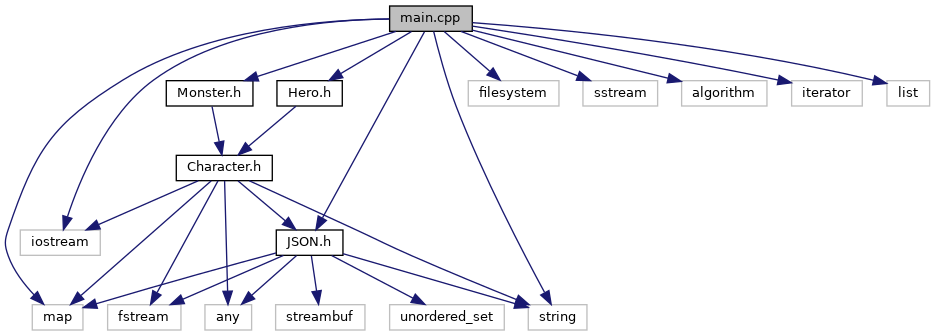
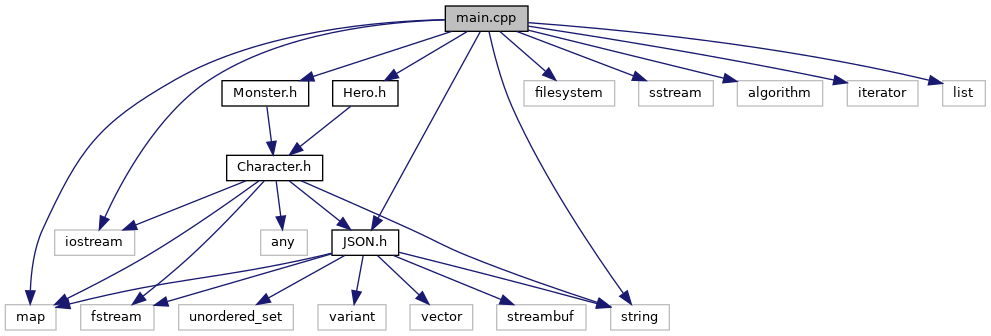
Update gh-pages to output generated at ac00d6c

diff --git a/JSON_8h_source.html b/JSON_8h_source.html
@@ -65,41 +65,44 @@ $(function() {
 <div class="title">JSON.h</div>  </div>
 </div><!--header-->
 <div class="contents">
-<div class="fragment"><div class="line"><a name="l00001"></a><span class="lineno">    1</span>&#160; </div>
-<div class="line"><a name="l00007"></a><span class="lineno">    7</span>&#160;<span class="preprocessor">#ifndef JSON_H</span></div>
-<div class="line"><a name="l00008"></a><span class="lineno">    8</span>&#160;<span class="preprocessor">#define JSON_H</span></div>
-<div class="line"><a name="l00009"></a><span class="lineno">    9</span>&#160; </div>
-<div class="line"><a name="l00010"></a><span class="lineno">   10</span>&#160;<span class="preprocessor">#include &lt;map&gt;</span></div>
-<div class="line"><a name="l00011"></a><span class="lineno">   11</span>&#160;<span class="preprocessor">#include &lt;string&gt;</span></div>
-<div class="line"><a name="l00012"></a><span class="lineno">   12</span>&#160;<span class="preprocessor">#include &lt;any&gt;</span></div>
-<div class="line"><a name="l00013"></a><span class="lineno">   13</span>&#160;<span class="preprocessor">#include &lt;fstream&gt;</span></div>
-<div class="line"><a name="l00014"></a><span class="lineno">   14</span>&#160;<span class="preprocessor">#include &lt;streambuf&gt;</span></div>
-<div class="line"><a name="l00015"></a><span class="lineno">   15</span>&#160;<span class="preprocessor">#include &lt;unordered_set&gt;</span></div>
-<div class="line"><a name="l00016"></a><span class="lineno">   16</span>&#160; </div>
-<div class="line"><a name="l00017"></a><span class="lineno"><a class="line" href="classJSON.html">   17</a></span>&#160;<span class="keyword">class </span><a class="code" href="classJSON.html">JSON</a></div>
-<div class="line"><a name="l00018"></a><span class="lineno">   18</span>&#160;{</div>
-<div class="line"><a name="l00019"></a><span class="lineno">   19</span>&#160;<span class="keyword">private</span>:</div>
-<div class="line"><a name="l00020"></a><span class="lineno">   20</span>&#160;    std::map&lt;std::string, std::any&gt; map;</div>
-<div class="line"><a name="l00021"></a><span class="lineno">   21</span>&#160;    <a class="code" href="classJSON.html">JSON</a>(<span class="keyword">const</span> std::map&lt;std::string, std::any&gt;&amp; _map) : map(_map) {}</div>
-<div class="line"><a name="l00022"></a><span class="lineno">   22</span>&#160;<span class="keyword">public</span>:</div>
-<div class="line"><a name="l00030"></a><span class="lineno">   30</span>&#160;    <span class="keyword">static</span> std::map&lt;std::string, std::any&gt; <a class="code" href="classJSON.html#aa43da4980c8220c893726d028bcd2b53">parse</a>(std::string inputString = <span class="stringliteral">&quot;&quot;</span>, <span class="keywordtype">bool</span> isFile = <span class="keyword">false</span>);</div>
-<div class="line"><a name="l00036"></a><span class="lineno">   36</span>&#160;    <span class="keyword">static</span> std::map&lt;std::string, std::any&gt; <a class="code" href="classJSON.html#aa43da4980c8220c893726d028bcd2b53">parse</a>(std::istream &amp;stream);</div>
-<div class="line"><a name="l00042"></a><span class="lineno">   42</span>&#160;    <span class="keyword">static</span> <a class="code" href="classJSON.html">JSON</a> <a class="code" href="classJSON.html#a5fca3b2c22d8276690a03c7a8a9f2339">parseFromFile</a>(std::string fileName);</div>
-<div class="line"><a name="l00048"></a><span class="lineno"><a class="line" href="classJSON.html#a8cdf7734b3652ae5b7e600eb0b4549bb">   48</a></span>&#160;    <span class="keyword">const</span> <span class="keywordtype">int</span> <a class="code" href="classJSON.html#a8cdf7734b3652ae5b7e600eb0b4549bb">count</a>(<span class="keyword">const</span> std::string &amp;key)<span class="keyword"> const </span>{ <span class="keywordflow">return</span> map.count(key); }</div>
-<div class="line"><a name="l00055"></a><span class="lineno">   55</span>&#160;    <span class="keyword">template</span> &lt;<span class="keyword">typename</span> T&gt;</div>
-<div class="line"><a name="l00056"></a><span class="lineno"><a class="line" href="classJSON.html#aebfe4eae3134bdc249f9695c6406bdba">   56</a></span>&#160;        T <a class="code" href="classJSON.html#aebfe4eae3134bdc249f9695c6406bdba">get</a>(<span class="keyword">const</span> std::string &amp;key) { <span class="keywordflow">return</span> std::any_cast&lt;T&gt;(map[key]); }</div>
-<div class="line"><a name="l00057"></a><span class="lineno">   57</span>&#160; </div>
-<div class="line"><a name="l00058"></a><span class="lineno"><a class="line" href="classJSON_1_1ParseException.html">   58</a></span>&#160;    <span class="keyword">class </span><a class="code" href="classJSON_1_1ParseException.html">ParseException</a> : <span class="keyword">public</span> std::exception {}; </div>
-<div class="line"><a name="l00059"></a><span class="lineno">   59</span>&#160;};</div>
-<div class="line"><a name="l00060"></a><span class="lineno">   60</span>&#160; </div>
-<div class="line"><a name="l00061"></a><span class="lineno">   61</span>&#160;<span class="preprocessor">#endif</span></div>
+<div class="fragment"><div class="line"><a name="l00001"></a><span class="lineno">    1</span>&#160;<span class="preprocessor">#ifndef JSON_H</span></div>
+<div class="line"><a name="l00002"></a><span class="lineno">    2</span>&#160;<span class="preprocessor">#define JSON_H</span></div>
+<div class="line"><a name="l00003"></a><span class="lineno">    3</span>&#160; </div>
+<div class="line"><a name="l00004"></a><span class="lineno">    4</span>&#160;<span class="preprocessor">#include &lt;map&gt;</span></div>
+<div class="line"><a name="l00005"></a><span class="lineno">    5</span>&#160;<span class="preprocessor">#include &lt;string&gt;</span></div>
+<div class="line"><a name="l00006"></a><span class="lineno">    6</span>&#160;<span class="preprocessor">#include &lt;fstream&gt;</span></div>
+<div class="line"><a name="l00007"></a><span class="lineno">    7</span>&#160;<span class="preprocessor">#include &lt;streambuf&gt;</span></div>
+<div class="line"><a name="l00008"></a><span class="lineno">    8</span>&#160;<span class="preprocessor">#include &lt;unordered_set&gt;</span></div>
+<div class="line"><a name="l00009"></a><span class="lineno">    9</span>&#160;<span class="preprocessor">#include &lt;variant&gt;</span></div>
+<div class="line"><a name="l00010"></a><span class="lineno">   10</span>&#160;<span class="preprocessor">#include &lt;vector&gt;</span></div>
+<div class="line"><a name="l00011"></a><span class="lineno">   11</span>&#160; </div>
+<div class="line"><a name="l00012"></a><span class="lineno"><a class="line" href="classJSON.html">   12</a></span>&#160;<span class="keyword">class </span><a class="code" href="classJSON.html">JSON</a></div>
+<div class="line"><a name="l00013"></a><span class="lineno">   13</span>&#160;{</div>
+<div class="line"><a name="l00014"></a><span class="lineno">   14</span>&#160;<span class="keyword">public</span>:</div>
+<div class="line"><a name="l00015"></a><span class="lineno">   15</span>&#160;    <span class="keyword">typedef</span> std::vector&lt;std::variant&lt;std::string, float, bool, std::nullptr_t&gt;&gt; list;</div>
+<div class="line"><a name="l00016"></a><span class="lineno">   16</span>&#160;    <span class="keyword">typedef</span> std::variant&lt;std::string, list, float, bool, std::nullptr_t&gt; var;</div>
+<div class="line"><a name="l00017"></a><span class="lineno">   17</span>&#160;<span class="keyword">private</span>:</div>
+<div class="line"><a name="l00018"></a><span class="lineno">   18</span>&#160;    std::map&lt;std::string, var&gt; map;</div>
+<div class="line"><a name="l00019"></a><span class="lineno">   19</span>&#160;    <a class="code" href="classJSON.html">JSON</a>(std::map&lt;std::string, var&gt; _map) : map(_map) {}</div>
+<div class="line"><a name="l00020"></a><span class="lineno">   20</span>&#160;<span class="keyword">public</span>:</div>
+<div class="line"><a name="l00028"></a><span class="lineno">   28</span>&#160;    <span class="keyword">static</span> std::map&lt;std::string, var&gt; <a class="code" href="classJSON.html#a40332576937cf36882ea84b8f250fabb">parse</a>(std::string inputString = <span class="stringliteral">&quot;&quot;</span>, <span class="keywordtype">bool</span> isFile = <span class="keyword">false</span>);</div>
+<div class="line"><a name="l00034"></a><span class="lineno">   34</span>&#160;    <span class="keyword">static</span> std::map&lt;std::string, var&gt; <a class="code" href="classJSON.html#a40332576937cf36882ea84b8f250fabb">parse</a>(std::istream &amp;stream);</div>
+<div class="line"><a name="l00040"></a><span class="lineno">   40</span>&#160;    <span class="keyword">static</span> <a class="code" href="classJSON.html">JSON</a> <a class="code" href="classJSON.html#a5fca3b2c22d8276690a03c7a8a9f2339">parseFromFile</a>(std::string fileName);</div>
+<div class="line"><a name="l00046"></a><span class="lineno"><a class="line" href="classJSON.html#a8cdf7734b3652ae5b7e600eb0b4549bb">   46</a></span>&#160;    <span class="keyword">const</span> <span class="keywordtype">int</span> <a class="code" href="classJSON.html#a8cdf7734b3652ae5b7e600eb0b4549bb">count</a>(<span class="keyword">const</span> std::string &amp;key)<span class="keyword"> const </span>{ <span class="keywordflow">return</span> map.count(key); }</div>
+<div class="line"><a name="l00054"></a><span class="lineno">   54</span>&#160;    <span class="keyword">template</span> &lt;<span class="keyword">typename</span> T&gt;</div>
+<div class="line"><a name="l00055"></a><span class="lineno"><a class="line" href="classJSON.html#aebfe4eae3134bdc249f9695c6406bdba">   55</a></span>&#160;        T <a class="code" href="classJSON.html#aebfe4eae3134bdc249f9695c6406bdba">get</a>(<span class="keyword">const</span> std::string &amp;key) { <span class="keywordflow">return</span> std::get&lt;T&gt;(map[key]); }</div>
+<div class="line"><a name="l00056"></a><span class="lineno">   56</span>&#160; </div>
+<div class="line"><a name="l00057"></a><span class="lineno"><a class="line" href="classJSON_1_1ParseException.html">   57</a></span>&#160;    <span class="keyword">class </span><a class="code" href="classJSON_1_1ParseException.html">ParseException</a> : <span class="keyword">public</span> std::exception {}; </div>
+<div class="line"><a name="l00058"></a><span class="lineno">   58</span>&#160;};</div>
+<div class="line"><a name="l00059"></a><span class="lineno">   59</span>&#160; </div>
+<div class="line"><a name="l00060"></a><span class="lineno">   60</span>&#160;<span class="preprocessor">#endif</span></div>
 </div><!-- fragment --></div><!-- contents -->
-<div class="ttc" id="aclassJSON_html_aa43da4980c8220c893726d028bcd2b53"><div class="ttname"><a href="classJSON.html#aa43da4980c8220c893726d028bcd2b53">JSON::parse</a></div><div class="ttdeci">static std::map&lt; std::string, std::any &gt; parse(std::string inputString=&quot;&quot;, bool isFile=false)</div><div class="ttdoc">String or file parse.</div><div class="ttdef"><b>Definition:</b> JSON.cpp:172</div></div>
-<div class="ttc" id="aclassJSON_html_aebfe4eae3134bdc249f9695c6406bdba"><div class="ttname"><a href="classJSON.html#aebfe4eae3134bdc249f9695c6406bdba">JSON::get</a></div><div class="ttdeci">T get(const std::string &amp;key)</div><div class="ttdoc">Getter for own map.</div><div class="ttdef"><b>Definition:</b> JSON.h:56</div></div>
-<div class="ttc" id="aclassJSON_html_a5fca3b2c22d8276690a03c7a8a9f2339"><div class="ttname"><a href="classJSON.html#a5fca3b2c22d8276690a03c7a8a9f2339">JSON::parseFromFile</a></div><div class="ttdeci">static JSON parseFromFile(std::string fileName)</div><div class="ttdoc">File parse to own map.</div><div class="ttdef"><b>Definition:</b> JSON.cpp:201</div></div>
-<div class="ttc" id="aclassJSON_html_a8cdf7734b3652ae5b7e600eb0b4549bb"><div class="ttname"><a href="classJSON.html#a8cdf7734b3652ae5b7e600eb0b4549bb">JSON::count</a></div><div class="ttdeci">const int count(const std::string &amp;key) const</div><div class="ttdoc">Key counter in own map.</div><div class="ttdef"><b>Definition:</b> JSON.h:48</div></div>
-<div class="ttc" id="aclassJSON_html"><div class="ttname"><a href="classJSON.html">JSON</a></div><div class="ttdoc">Reads simple data maps in .json format.</div><div class="ttdef"><b>Definition:</b> JSON.h:17</div></div>
-<div class="ttc" id="aclassJSON_1_1ParseException_html"><div class="ttname"><a href="classJSON_1_1ParseException.html">JSON::ParseException</a></div><div class="ttdef"><b>Definition:</b> JSON.h:58</div></div>
+<div class="ttc" id="aclassJSON_html_aebfe4eae3134bdc249f9695c6406bdba"><div class="ttname"><a href="classJSON.html#aebfe4eae3134bdc249f9695c6406bdba">JSON::get</a></div><div class="ttdeci">T get(const std::string &amp;key)</div><div class="ttdoc">Getter for own map.</div><div class="ttdef"><b>Definition:</b> JSON.h:55</div></div>
+<div class="ttc" id="aclassJSON_html_a5fca3b2c22d8276690a03c7a8a9f2339"><div class="ttname"><a href="classJSON.html#a5fca3b2c22d8276690a03c7a8a9f2339">JSON::parseFromFile</a></div><div class="ttdeci">static JSON parseFromFile(std::string fileName)</div><div class="ttdoc">File parse to own map.</div><div class="ttdef"><b>Definition:</b> JSON.cpp:276</div></div>
+<div class="ttc" id="aclassJSON_html_a8cdf7734b3652ae5b7e600eb0b4549bb"><div class="ttname"><a href="classJSON.html#a8cdf7734b3652ae5b7e600eb0b4549bb">JSON::count</a></div><div class="ttdeci">const int count(const std::string &amp;key) const</div><div class="ttdoc">Key counter in own map.</div><div class="ttdef"><b>Definition:</b> JSON.h:46</div></div>
+<div class="ttc" id="aclassJSON_html"><div class="ttname"><a href="classJSON.html">JSON</a></div><div class="ttdef"><b>Definition:</b> JSON.h:12</div></div>
+<div class="ttc" id="aclassJSON_html_a40332576937cf36882ea84b8f250fabb"><div class="ttname"><a href="classJSON.html#a40332576937cf36882ea84b8f250fabb">JSON::parse</a></div><div class="ttdeci">static std::map&lt; std::string, var &gt; parse(std::string inputString=&quot;&quot;, bool isFile=false)</div><div class="ttdoc">String or file parse.</div><div class="ttdef"><b>Definition:</b> JSON.cpp:247</div></div>
+<div class="ttc" id="aclassJSON_1_1ParseException_html"><div class="ttname"><a href="classJSON_1_1ParseException.html">JSON::ParseException</a></div><div class="ttdef"><b>Definition:</b> JSON.h:57</div></div>
 <!-- start footer part -->
 <hr class="footer"/><address class="footer"><small>
 Generated by &#160;<a href="http://www.doxygen.org/index.html">

diff --git a/classJSON.html b/classJSON.html
@@ -63,6 +63,7 @@ $(function() {
 <div class="header">
   <div class="summary">
 <a href="#nested-classes">Classes</a> &#124;
+<a href="#pub-types">Public Types</a> &#124;
 <a href="#pub-methods">Public Member Functions</a> &#124;
 <a href="#pub-static-methods">Static Public Member Functions</a> &#124;
 <a href="classJSON-members.html">List of all members</a>  </div>
@@ -70,16 +71,20 @@ $(function() {
 <div class="title">JSON Class Reference</div>  </div>
 </div><!--header-->
 <div class="contents">
-
-<p>Reads simple data maps in .json format.  
- <a href="classJSON.html#details">More...</a></p>
-
-<p><code>#include &lt;<a class="el" href="JSON_8h_source.html">JSON.h</a>&gt;</code></p>
 <table class="memberdecls">
 <tr class="heading"><td colspan="2"><h2 class="groupheader"><a name="nested-classes"></a>
 Classes</h2></td></tr>
 <tr class="memitem:"><td class="memItemLeft" align="right" valign="top">class &#160;</td><td class="memItemRight" valign="bottom"><a class="el" href="classJSON_1_1ParseException.html">ParseException</a></td></tr>
 <tr class="separator:"><td class="memSeparator" colspan="2">&#160;</td></tr>
+</table><table class="memberdecls">
+<tr class="heading"><td colspan="2"><h2 class="groupheader"><a name="pub-types"></a>
+Public Types</h2></td></tr>
+<tr class="memitem:adfb2207a938cada0edf8044c0728dfe0"><td class="memItemLeft" align="right" valign="top"><a id="adfb2207a938cada0edf8044c0728dfe0"></a>
+typedef std::vector&lt; std::variant&lt; std::string, float, bool, std::nullptr_t &gt; &gt;&#160;</td><td class="memItemRight" valign="bottom"><b>list</b></td></tr>
+<tr class="separator:adfb2207a938cada0edf8044c0728dfe0"><td class="memSeparator" colspan="2">&#160;</td></tr>
+<tr class="memitem:a6b21e80ece16ee74dc6ea0a4c875d40f"><td class="memItemLeft" align="right" valign="top"><a id="a6b21e80ece16ee74dc6ea0a4c875d40f"></a>
+typedef std::variant&lt; std::string, list, float, bool, std::nullptr_t &gt;&#160;</td><td class="memItemRight" valign="bottom"><b>var</b></td></tr>
+<tr class="separator:a6b21e80ece16ee74dc6ea0a4c875d40f"><td class="memSeparator" colspan="2">&#160;</td></tr>
 </table><table class="memberdecls">
 <tr class="heading"><td colspan="2"><h2 class="groupheader"><a name="pub-methods"></a>
 Public Member Functions</h2></td></tr>
@@ -93,20 +98,17 @@ Public Member Functions</h2></td></tr>
 </table><table class="memberdecls">
 <tr class="heading"><td colspan="2"><h2 class="groupheader"><a name="pub-static-methods"></a>
 Static Public Member Functions</h2></td></tr>
-<tr class="memitem:aa43da4980c8220c893726d028bcd2b53"><td class="memItemLeft" align="right" valign="top">static std::map&lt; std::string, std::any &gt;&#160;</td><td class="memItemRight" valign="bottom"><a class="el" href="classJSON.html#aa43da4980c8220c893726d028bcd2b53">parse</a> (std::string inputString=&quot;&quot;, bool isFile=false)</td></tr>
-<tr class="memdesc:aa43da4980c8220c893726d028bcd2b53"><td class="mdescLeft">&#160;</td><td class="mdescRight">String or file parse.  <a href="classJSON.html#aa43da4980c8220c893726d028bcd2b53">More...</a><br /></td></tr>
-<tr class="separator:aa43da4980c8220c893726d028bcd2b53"><td class="memSeparator" colspan="2">&#160;</td></tr>
-<tr class="memitem:abf14fe03df14e5c281fc6ff491f643ce"><td class="memItemLeft" align="right" valign="top">static std::map&lt; std::string, std::any &gt;&#160;</td><td class="memItemRight" valign="bottom"><a class="el" href="classJSON.html#abf14fe03df14e5c281fc6ff491f643ce">parse</a> (std::istream &amp;stream)</td></tr>
-<tr class="memdesc:abf14fe03df14e5c281fc6ff491f643ce"><td class="mdescLeft">&#160;</td><td class="mdescRight">Stream parse.  <a href="classJSON.html#abf14fe03df14e5c281fc6ff491f643ce">More...</a><br /></td></tr>
-<tr class="separator:abf14fe03df14e5c281fc6ff491f643ce"><td class="memSeparator" colspan="2">&#160;</td></tr>
+<tr class="memitem:a40332576937cf36882ea84b8f250fabb"><td class="memItemLeft" align="right" valign="top">static std::map&lt; std::string, var &gt;&#160;</td><td class="memItemRight" valign="bottom"><a class="el" href="classJSON.html#a40332576937cf36882ea84b8f250fabb">parse</a> (std::string inputString=&quot;&quot;, bool isFile=false)</td></tr>
+<tr class="memdesc:a40332576937cf36882ea84b8f250fabb"><td class="mdescLeft">&#160;</td><td class="mdescRight">String or file parse.  <a href="classJSON.html#a40332576937cf36882ea84b8f250fabb">More...</a><br /></td></tr>
+<tr class="separator:a40332576937cf36882ea84b8f250fabb"><td class="memSeparator" colspan="2">&#160;</td></tr>
+<tr class="memitem:a2f4222f8d05f37ea0d28ec44fd2404a7"><td class="memItemLeft" align="right" valign="top">static std::map&lt; std::string, var &gt;&#160;</td><td class="memItemRight" valign="bottom"><a class="el" href="classJSON.html#a2f4222f8d05f37ea0d28ec44fd2404a7">parse</a> (std::istream &amp;stream)</td></tr>
+<tr class="memdesc:a2f4222f8d05f37ea0d28ec44fd2404a7"><td class="mdescLeft">&#160;</td><td class="mdescRight">Stream parse.  <a href="classJSON.html#a2f4222f8d05f37ea0d28ec44fd2404a7">More...</a><br /></td></tr>
+<tr class="separator:a2f4222f8d05f37ea0d28ec44fd2404a7"><td class="memSeparator" colspan="2">&#160;</td></tr>
 <tr class="memitem:a5fca3b2c22d8276690a03c7a8a9f2339"><td class="memItemLeft" align="right" valign="top">static <a class="el" href="classJSON.html">JSON</a>&#160;</td><td class="memItemRight" valign="bottom"><a class="el" href="classJSON.html#a5fca3b2c22d8276690a03c7a8a9f2339">parseFromFile</a> (std::string fileName)</td></tr>
 <tr class="memdesc:a5fca3b2c22d8276690a03c7a8a9f2339"><td class="mdescLeft">&#160;</td><td class="mdescRight">File parse to own map.  <a href="classJSON.html#a5fca3b2c22d8276690a03c7a8a9f2339">More...</a><br /></td></tr>
 <tr class="separator:a5fca3b2c22d8276690a03c7a8a9f2339"><td class="memSeparator" colspan="2">&#160;</td></tr>
 </table>
-<a name="details" id="details"></a><h2 class="groupheader">Detailed Description</h2>
-<div class="textblock"><p>Reads simple data maps in .json format. </p>
-<p>Stores and handles a map. </p>
-</div><h2 class="groupheader">Member Function Documentation</h2>
+<h2 class="groupheader">Member Function Documentation</h2>
 <a id="a8cdf7734b3652ae5b7e600eb0b4549bb"></a>
 <h2 class="memtitle"><span class="permalink"><a href="#a8cdf7734b3652ae5b7e600eb0b4549bb">&#9670;&nbsp;</a></span>count()</h2>
 
@@ -185,8 +187,8 @@ template&lt;typename T &gt; </div>
 
 </div>
 </div>
-<a id="abf14fe03df14e5c281fc6ff491f643ce"></a>
-<h2 class="memtitle"><span class="permalink"><a href="#abf14fe03df14e5c281fc6ff491f643ce">&#9670;&nbsp;</a></span>parse() <span class="overload">[1/2]</span></h2>
+<a id="a2f4222f8d05f37ea0d28ec44fd2404a7"></a>
+<h2 class="memtitle"><span class="permalink"><a href="#a2f4222f8d05f37ea0d28ec44fd2404a7">&#9670;&nbsp;</a></span>parse() <span class="overload">[1/2]</span></h2>
 
 <div class="memitem">
 <div class="memproto">
@@ -195,7 +197,7 @@ template&lt;typename T &gt; </div>
   <td class="mlabels-left">
       <table class="memname">
         <tr>
-          <td class="memname">std::map&lt; std::string, std::any &gt; JSON::parse </td>
+          <td class="memname">std::map&lt; std::string, JSON::var &gt; JSON::parse </td>
           <td>(</td>
           <td class="paramtype">std::istream &amp;&#160;</td>
           <td class="paramname"><em>stream</em></td><td>)</td>
@@ -220,8 +222,8 @@ template&lt;typename T &gt; </div>
 
 </div>
 </div>
-<a id="aa43da4980c8220c893726d028bcd2b53"></a>
-<h2 class="memtitle"><span class="permalink"><a href="#aa43da4980c8220c893726d028bcd2b53">&#9670;&nbsp;</a></span>parse() <span class="overload">[2/2]</span></h2>
+<a id="a40332576937cf36882ea84b8f250fabb"></a>
+<h2 class="memtitle"><span class="permalink"><a href="#a40332576937cf36882ea84b8f250fabb">&#9670;&nbsp;</a></span>parse() <span class="overload">[2/2]</span></h2>
 
 <div class="memitem">
 <div class="memproto">
@@ -230,7 +232,7 @@ template&lt;typename T &gt; </div>
   <td class="mlabels-left">
       <table class="memname">
         <tr>
-          <td class="memname">std::map&lt; std::string, std::any &gt; JSON::parse </td>
+          <td class="memname">std::map&lt; std::string, JSON::var &gt; JSON::parse </td>
           <td>(</td>
           <td class="paramtype">std::string&#160;</td>
           <td class="paramname"><em>inputString</em> = <code>&quot;&quot;</code>, </td>
@@ -297,7 +299,7 @@ template&lt;typename T &gt; </div>
   </table>
   </dd>
 </dl>
-<dl class="section return"><dt>Returns</dt><dd><a class="el" href="classJSON.html" title="Reads simple data maps in .json format.">JSON</a> with defined map. </dd></dl>
+<dl class="section return"><dt>Returns</dt><dd><a class="el" href="classJSON.html">JSON</a> with defined map. </dd></dl>
 
 </div>
 </div>

diff --git a/classJSON-members.html b/classJSON-members.html
@@ -70,9 +70,11 @@ $(function() {
 <table class="directory">
   <tr class="even"><td class="entry"><a class="el" href="classJSON.html#a8cdf7734b3652ae5b7e600eb0b4549bb">count</a>(const std::string &amp;key) const</td><td class="entry"><a class="el" href="classJSON.html">JSON</a></td><td class="entry"><span class="mlabel">inline</span></td></tr>
   <tr><td class="entry"><a class="el" href="classJSON.html#aebfe4eae3134bdc249f9695c6406bdba">get</a>(const std::string &amp;key)</td><td class="entry"><a class="el" href="classJSON.html">JSON</a></td><td class="entry"><span class="mlabel">inline</span></td></tr>
-  <tr class="even"><td class="entry"><a class="el" href="classJSON.html#aa43da4980c8220c893726d028bcd2b53">parse</a>(std::string inputString=&quot;&quot;, bool isFile=false)</td><td class="entry"><a class="el" href="classJSON.html">JSON</a></td><td class="entry"><span class="mlabel">static</span></td></tr>
-  <tr><td class="entry"><a class="el" href="classJSON.html#abf14fe03df14e5c281fc6ff491f643ce">parse</a>(std::istream &amp;stream)</td><td class="entry"><a class="el" href="classJSON.html">JSON</a></td><td class="entry"><span class="mlabel">static</span></td></tr>
-  <tr class="even"><td class="entry"><a class="el" href="classJSON.html#a5fca3b2c22d8276690a03c7a8a9f2339">parseFromFile</a>(std::string fileName)</td><td class="entry"><a class="el" href="classJSON.html">JSON</a></td><td class="entry"><span class="mlabel">static</span></td></tr>
+  <tr bgcolor="#f0f0f0" class="even"><td class="entry"><b>list</b> typedef (defined in <a class="el" href="classJSON.html">JSON</a>)</td><td class="entry"><a class="el" href="classJSON.html">JSON</a></td><td class="entry"></td></tr>
+  <tr><td class="entry"><a class="el" href="classJSON.html#a40332576937cf36882ea84b8f250fabb">parse</a>(std::string inputString=&quot;&quot;, bool isFile=false)</td><td class="entry"><a class="el" href="classJSON.html">JSON</a></td><td class="entry"><span class="mlabel">static</span></td></tr>
+  <tr class="even"><td class="entry"><a class="el" href="classJSON.html#a2f4222f8d05f37ea0d28ec44fd2404a7">parse</a>(std::istream &amp;stream)</td><td class="entry"><a class="el" href="classJSON.html">JSON</a></td><td class="entry"><span class="mlabel">static</span></td></tr>
+  <tr><td class="entry"><a class="el" href="classJSON.html#a5fca3b2c22d8276690a03c7a8a9f2339">parseFromFile</a>(std::string fileName)</td><td class="entry"><a class="el" href="classJSON.html">JSON</a></td><td class="entry"><span class="mlabel">static</span></td></tr>
+  <tr bgcolor="#f0f0f0" class="even"><td class="entry"><b>var</b> typedef (defined in <a class="el" href="classJSON.html">JSON</a>)</td><td class="entry"><a class="el" href="classJSON.html">JSON</a></td><td class="entry"></td></tr>
 </table></div><!-- contents -->
 <!-- start footer part -->
 <hr class="footer"/><address class="footer"><small>

diff --git a/main_8cpp.html b/main_8cpp.html
@@ -84,23 +84,25 @@ Include dependency graph for main.cpp:</div>
 <div class="dyncontent">
 <div class="center"><img src="main_8cpp__incl.png" border="0" usemap="#main_8cpp" alt=""/></div>
 <map name="main_8cpp" id="main_8cpp">
-<area shape="rect" title=" " alt="" coords="390,5,472,32"/>
-<area shape="rect" title=" " alt="" coords="20,229,100,256"/>
-<area shape="rect" title=" " alt="" coords="32,304,83,331"/>
-<area shape="rect" title=" " alt="" coords="528,304,587,331"/>
-<area shape="rect" title=" " alt="" coords="468,80,559,107"/>
-<area shape="rect" title=" " alt="" coords="583,80,658,107"/>
-<area shape="rect" title=" " alt="" coords="682,80,767,107"/>
-<area shape="rect" title=" " alt="" coords="792,80,862,107"/>
-<area shape="rect" title=" " alt="" coords="887,80,930,107"/>
-<area shape="rect" href="JSON_8h_source.html" title=" " alt="" coords="276,229,343,256"/>
-<area shape="rect" href="Hero_8h_source.html" title=" " alt="" coords="277,80,342,107"/>
-<area shape="rect" href="Monster_8h_source.html" title=" " alt="" coords="166,80,253,107"/>
-<area shape="rect" title=" " alt="" coords="205,304,252,331"/>
-<area shape="rect" title=" " alt="" coords="108,304,181,331"/>
-<area shape="rect" title=" " alt="" coords="276,304,365,331"/>
-<area shape="rect" title=" " alt="" coords="390,304,504,331"/>
-<area shape="rect" href="Character_8h_source.html" title=" " alt="" coords="176,155,272,181"/>
+<area shape="rect" title=" " alt="" coords="445,5,528,32"/>
+<area shape="rect" title=" " alt="" coords="55,229,135,256"/>
+<area shape="rect" title=" " alt="" coords="5,304,56,331"/>
+<area shape="rect" title=" " alt="" coords="611,304,669,331"/>
+<area shape="rect" title=" " alt="" coords="524,80,615,107"/>
+<area shape="rect" title=" " alt="" coords="639,80,713,107"/>
+<area shape="rect" title=" " alt="" coords="737,80,823,107"/>
+<area shape="rect" title=" " alt="" coords="847,80,918,107"/>
+<area shape="rect" title=" " alt="" coords="943,80,985,107"/>
+<area shape="rect" href="JSON_8h_source.html" title=" " alt="" coords="332,229,399,256"/>
+<area shape="rect" href="Hero_8h_source.html" title=" " alt="" coords="333,80,398,107"/>
+<area shape="rect" href="Monster_8h_source.html" title=" " alt="" coords="222,80,309,107"/>
+<area shape="rect" title=" " alt="" coords="81,304,154,331"/>
+<area shape="rect" title=" " alt="" coords="497,304,586,331"/>
+<area shape="rect" title=" " alt="" coords="179,304,293,331"/>
+<area shape="rect" title=" " alt="" coords="318,304,386,331"/>
+<area shape="rect" title=" " alt="" coords="410,304,473,331"/>
+<area shape="rect" href="Character_8h_source.html" title=" " alt="" coords="227,155,323,181"/>
+<area shape="rect" title=" " alt="" coords="261,229,307,256"/>
 </map>
 </div>
 </div><table class="memberdecls">

diff --git a/annotated.html b/annotated.html
@@ -70,7 +70,7 @@ $(function() {
 <tr id="row_0_" class="even"><td class="entry"><span style="width:16px;display:inline-block;">&#160;</span><span class="icona"><span class="icon">C</span></span><a class="el" href="classCharacter.html" target="_self">Character</a></td><td class="desc">This is a base class representing our entity. Handels their attributes and interactions </td></tr>
 <tr id="row_1_"><td class="entry"><span style="width:16px;display:inline-block;">&#160;</span><span class="icona"><span class="icon">C</span></span><a class="el" href="structDamage.html" target="_self">Damage</a></td><td class="desc"></td></tr>
 <tr id="row_2_" class="even"><td class="entry"><span style="width:16px;display:inline-block;">&#160;</span><span class="icona"><span class="icon">C</span></span><a class="el" href="classHero.html" target="_self">Hero</a></td><td class="desc">This is a subclass representing the main character. Contains construction and level up management </td></tr>
-<tr id="row_3_"><td class="entry"><span style="width:0px;display:inline-block;">&#160;</span><span id="arr_3_" class="arrow" onclick="toggleFolder('3_')">&#9660;</span><span class="icona"><span class="icon">C</span></span><a class="el" href="classJSON.html" target="_self">JSON</a></td><td class="desc">Reads simple data maps in .json format </td></tr>
+<tr id="row_3_"><td class="entry"><span style="width:0px;display:inline-block;">&#160;</span><span id="arr_3_" class="arrow" onclick="toggleFolder('3_')">&#9660;</span><span class="icona"><span class="icon">C</span></span><a class="el" href="classJSON.html" target="_self">JSON</a></td><td class="desc"></td></tr>
 <tr id="row_3_0_" class="even"><td class="entry"><span style="width:32px;display:inline-block;">&#160;</span><span class="icona"><span class="icon">C</span></span><a class="el" href="classJSON_1_1ParseException.html" target="_self">ParseException</a></td><td class="desc"></td></tr>
 <tr id="row_4_"><td class="entry"><span style="width:16px;display:inline-block;">&#160;</span><span class="icona"><span class="icon">C</span></span><a class="el" href="classMonster.html" target="_self">Monster</a></td><td class="desc">This is a subclass representing the enemies. Contains construction </td></tr>
 </table>

diff --git a/hierarchy.html b/hierarchy.html
@@ -75,7 +75,7 @@ This inheritance list is sorted roughly, but not completely, alphabetically:</di
 <tr id="row_1_"><td class="entry"><span style="width:16px;display:inline-block;">&#160;</span><span class="icona"><span class="icon">C</span></span><a class="el" href="structDamage.html" target="_self">Damage</a></td><td class="desc"></td></tr>
 <tr id="row_2_" class="even"><td class="entry"><span style="width:0px;display:inline-block;">&#160;</span><span id="arr_2_" class="arrow" onclick="toggleFolder('2_')">&#9660;</span><span class="icona"><span class="icon">C</span></span><b>exception</b></td><td class="desc"></td></tr>
 <tr id="row_2_0_"><td class="entry"><span style="width:32px;display:inline-block;">&#160;</span><span class="icona"><span class="icon">C</span></span><a class="el" href="classJSON_1_1ParseException.html" target="_self">JSON::ParseException</a></td><td class="desc"></td></tr>
-<tr id="row_3_" class="even"><td class="entry"><span style="width:16px;display:inline-block;">&#160;</span><span class="icona"><span class="icon">C</span></span><a class="el" href="classJSON.html" target="_self">JSON</a></td><td class="desc">Reads simple data maps in .json format </td></tr>
+<tr id="row_3_" class="even"><td class="entry"><span style="width:16px;display:inline-block;">&#160;</span><span class="icona"><span class="icon">C</span></span><a class="el" href="classJSON.html" target="_self">JSON</a></td><td class="desc"></td></tr>
 </table>
 </div><!-- directory -->
 </div><!-- contents -->

diff --git a/search/all_a.js b/search/all_a.js
@@ -1,6 +1,6 @@
 var searchData=
 [
-  ['parse_25',['parse',['../classHero.html#a0717ae3062938d83d0439d49f852a09a',1,'Hero::parse()'],['../classJSON.html#aa43da4980c8220c893726d028bcd2b53',1,'JSON::parse(std::string inputString=&quot;&quot;, bool isFile=false)'],['../classJSON.html#abf14fe03df14e5c281fc6ff491f643ce',1,'JSON::parse(std::istream &amp;stream)'],['../classMonster.html#a84591b64bcdafc2bc9cb3ad0473e80ca',1,'Monster::parse()']]],
+  ['parse_25',['parse',['../classHero.html#a0717ae3062938d83d0439d49f852a09a',1,'Hero::parse()'],['../classJSON.html#a40332576937cf36882ea84b8f250fabb',1,'JSON::parse(std::string inputString=&quot;&quot;, bool isFile=false)'],['../classJSON.html#a2f4222f8d05f37ea0d28ec44fd2404a7',1,'JSON::parse(std::istream &amp;stream)'],['../classMonster.html#a84591b64bcdafc2bc9cb3ad0473e80ca',1,'Monster::parse()']]],
   ['parseexception_26',['ParseException',['../classJSON_1_1ParseException.html',1,'JSON']]],
   ['parsefromfile_27',['parseFromFile',['../classJSON.html#a5fca3b2c22d8276690a03c7a8a9f2339',1,'JSON']]]
 ];

diff --git a/search/functions_7.js b/search/functions_7.js
@@ -1,5 +1,5 @@
 var searchData=
 [
-  ['parse_53',['parse',['../classHero.html#a0717ae3062938d83d0439d49f852a09a',1,'Hero::parse()'],['../classJSON.html#aa43da4980c8220c893726d028bcd2b53',1,'JSON::parse(std::string inputString=&quot;&quot;, bool isFile=false)'],['../classJSON.html#abf14fe03df14e5c281fc6ff491f643ce',1,'JSON::parse(std::istream &amp;stream)'],['../classMonster.html#a84591b64bcdafc2bc9cb3ad0473e80ca',1,'Monster::parse()']]],
+  ['parse_53',['parse',['../classHero.html#a0717ae3062938d83d0439d49f852a09a',1,'Hero::parse()'],['../classJSON.html#a40332576937cf36882ea84b8f250fabb',1,'JSON::parse(std::string inputString=&quot;&quot;, bool isFile=false)'],['../classJSON.html#a2f4222f8d05f37ea0d28ec44fd2404a7',1,'JSON::parse(std::istream &amp;stream)'],['../classMonster.html#a84591b64bcdafc2bc9cb3ad0473e80ca',1,'Monster::parse()']]],
   ['parsefromfile_54',['parseFromFile',['../classJSON.html#a5fca3b2c22d8276690a03c7a8a9f2339',1,'JSON']]]
 ];

diff --git a/inherits.html b/inherits.html
@@ -82,7 +82,7 @@ $(function() {
 </td></tr>
 <tr><td><img src="inherit_graph_2.png" border="0" usemap="#JSON" alt=""/>
 <map name="JSON" id="JSON">
-<area shape="rect" href="classJSON.html" title="Reads simple data maps in .json format." alt="" coords="5,5,60,32"/>
+<area shape="rect" href="classJSON.html" title=" " alt="" coords="5,5,60,32"/>
 </map>
 </td></tr>
 <tr><td><img src="inherit_graph_3.png" border="0" usemap="#JSON_1_1ParseException" alt=""/>

diff --git a/functions.html b/functions.html
@@ -118,7 +118,7 @@ $(function() {
 </li>
 <li>parse()
 : <a class="el" href="classHero.html#a0717ae3062938d83d0439d49f852a09a">Hero</a>
-, <a class="el" href="classJSON.html#aa43da4980c8220c893726d028bcd2b53">JSON</a>
+, <a class="el" href="classJSON.html#a40332576937cf36882ea84b8f250fabb">JSON</a>
 , <a class="el" href="classMonster.html#a84591b64bcdafc2bc9cb3ad0473e80ca">Monster</a>
 </li>
 <li>parseFromFile()

diff --git a/functions_func.html b/functions_func.html
@@ -109,7 +109,7 @@ $(function() {
 </li>
 <li>parse()
 : <a class="el" href="classHero.html#a0717ae3062938d83d0439d49f852a09a">Hero</a>
-, <a class="el" href="classJSON.html#aa43da4980c8220c893726d028bcd2b53">JSON</a>
+, <a class="el" href="classJSON.html#a40332576937cf36882ea84b8f250fabb">JSON</a>
 , <a class="el" href="classMonster.html#a84591b64bcdafc2bc9cb3ad0473e80ca">Monster</a>
 </li>
 <li>parseFromFile()
